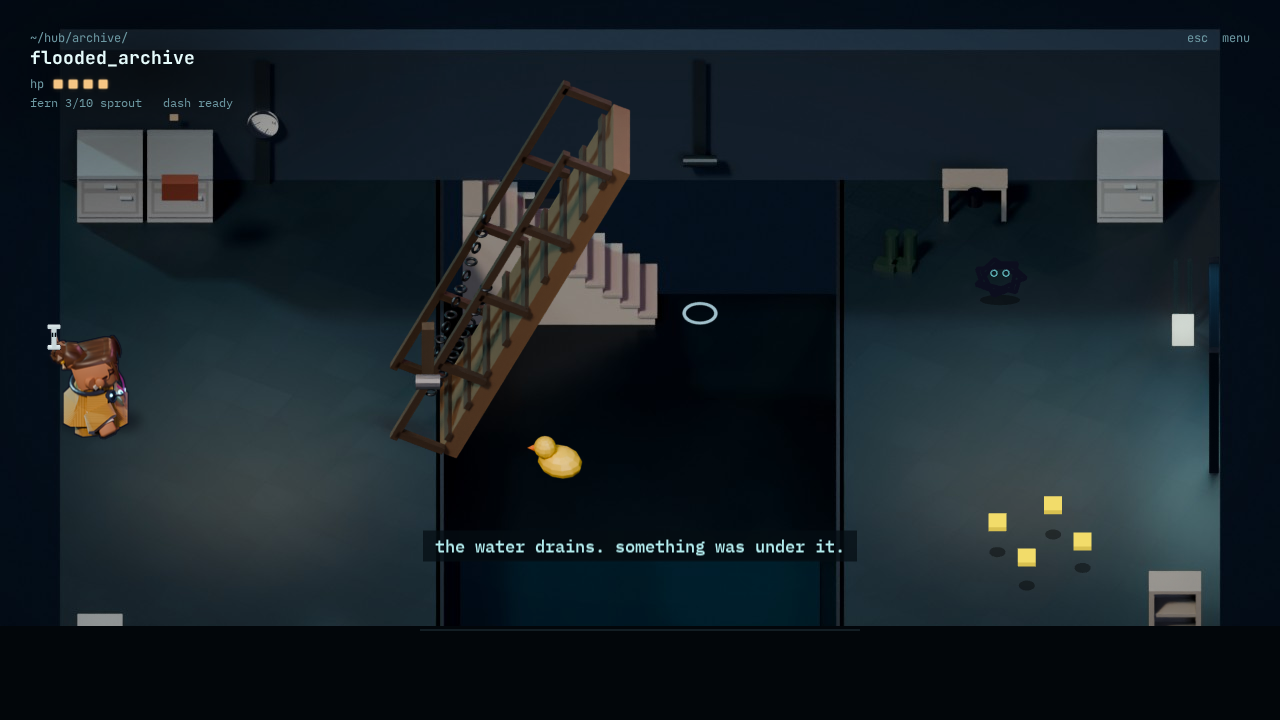
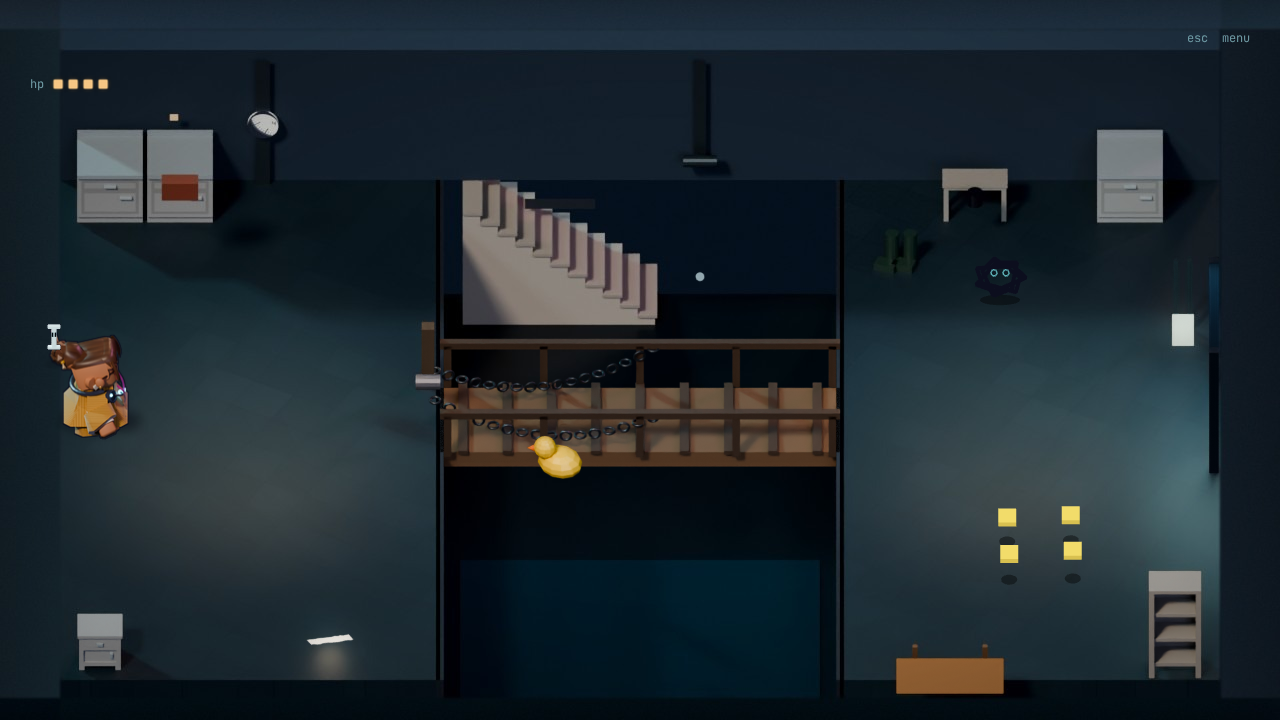
Level 1 step 5: launch-to-end playtest and stills.
Playtest now walks boot, title, New Game, the intro, the Phase 1
steal playthrough, the end screen, back to the menu, and Continue.
Stills live in mock-steal/level1/stills/. verify_steal and
impact_lab still pass. Continue no longer gets wiped by ?new=1.

diff --git a/game/src/game.ts b/game/src/game.ts
@@ -107,6 +107,7 @@ export class GameScene extends Phaser.Scene {
   roomCard?: Phaser.GameObjects.Container;
   endScreen?: Phaser.GameObjects.Container;
   ending = false;
+  endTimer?: Phaser.Time.TimerEvent;
   buildStamp = '';
   init(data?: TitleStartData) {
     this.fromTitle = !!data?.fromTitle;
@@ -131,7 +132,9 @@ export class GameScene extends Phaser.Scene {
       // Open floor near the rain window (not the coffee counter / old checkpoints)
       this.save.checkpoint = { room: 'office', x: 880, y: 400, plate: null };
     } else {
-      if (q.has('new')) wipeSave();
+      // ?new=1 is for lab / playtest URLs that boot straight into a fresh game.
+      // Title Continue must not honor it — the page URL still has ?new=1 from New Game.
+      if (q.has('new') && this.startMode !== 'continue') wipeSave();
       this.save = loadSave();
     }
     try { this.seenEver = this.labMode ? [] : JSON.parse(localStorage.getItem('pi.seenEver') ?? '[]'); } catch { this.seenEver = []; }
@@ -374,6 +377,9 @@ export class GameScene extends Phaser.Scene {
     { if (this.labMode) this.setupStaticCamera(); else this.setupStaticCamera(); }
     this.darkness = null; this.litImg = null; this.bridgeImg = null; this.bridgeTw = null; this.fgImgs = {}; this.hintObj = null; this.hintOn = false; this.stuck = 0; this.hintUsed = false; this.subQueue = []; this.subBusy = false;
     this.hud.sub.setVisible(false); this.hud.fern.setVisible(false); this.composer = null; this.busy = false; this.hand = null;
+    this.endTimer?.remove(false); this.endTimer = undefined;
+    this.endScreen?.destroy(); this.endScreen = undefined; this.ending = false;
+    this.roomCard?.destroy(); this.roomCard = undefined;
     this.fight = null; this.rootUsed = false; this.stored = null; this.rewriteT = 0; this.timeScale = 1; this.selecting = false; this.selectG = null; this.cutscene = null; this.slowVeil = null;
   }
 
@@ -418,7 +424,7 @@ export class GameScene extends Phaser.Scene {
     this.caret.setPosition(this.x - 40, this.y - 40);
     if (!fromLoad || cp.room !== id) { this.save.checkpoint = { room: id, x: r.spawn.x, y: r.spawn.y, plate: null }; }
     this.save.room = id; writeSave(this.save);
-    this.words.quiet = !!this.clar || (STEAL_ROOMS.includes(id) && !this.swapMode);
+    this.words.quiet = !!this.clar || ((STEAL_ROOMS.includes(id) || id === 'message') && !this.swapMode);
     this.setupRoom(id);
     this.clar?.start();
     // combat greybox: office only, behind ?combat=1
@@ -560,7 +566,7 @@ export class GameScene extends Phaser.Scene {
         if (finished) return; finished = true; this.cutscene = null;
         this.plateById('m_stairs')?.setVisibleState(true);
         this.save.phaseComplete = true; if (!this.save.seen.includes('sc5')) this.save.seen.push('sc5'); this.markSeen('sc5'); writeSave(this.save);
-        this.time.delayedCall(1200, () => showEndScreen(this));
+        this.endTimer?.remove(false); this.endTimer = this.time.delayedCall(1200, () => showEndScreen(this));
       };
       this.startCutscene('sc5', 0, () => {}, () => { this.subQueue = []; this.nextSub(); lines.forEach(([who, l, side], i) => { const b = this.add.text(side ? 880 : 400, 90 + i * 40, l, { fontFamily: 'IBM Plex Mono', fontSize: '16px', fontStyle: '500', color: who === 'ai' ? C.fern : '#F6E6C8', backgroundColor: 'rgba(10,16,24,0.9)', padding: { x: 10, y: 5 } }).setOrigin(side ? 1 : 0, 0).setDepth(-840); this.objs.push(b); }); this.time.removeAllEvents(); finish(); });
       const run = () => {

diff --git a/game/src/flow.ts b/game/src/flow.ts
@@ -52,7 +52,7 @@ export function showRoomCard(s: GameScene, id: RoomId) {
 }
 
 export function showEndScreen(s: GameScene) {
-  if (s.endScreen) return;
+  if (s.endScreen || s.room?.id !== 'message' || s.transitioning || s.ending) return;
   flushPlay(s);
   s.save.phaseComplete = true;
   writeSave(s.save);
@@ -60,7 +60,7 @@ export function showEndScreen(s: GameScene) {
   s.cutscene = { id: 'end', skip: () => backToTitle(s) };
   const time = formatPlayTime(s.save.playMs ?? 0);
   const c = s.add.container(0, 0).setScrollFactor(0).setDepth(8600);
-  const dim = s.add.rectangle(640, 360, 1280, 720, 0x04080c, 0.88).setInteractive();
+  const dim = s.add.rectangle(640, 360, 1280, 720, 0x04080c, 0.96).setInteractive();
   const kicker = s.add.text(640, 200, 'LEVEL 1', {
     fontFamily: FONT, fontSize: '16px', color: C.cyan, letterSpacing: 6,
   } as Phaser.Types.GameObjects.Text.TextStyle).setOrigin(0.5);

diff --git a/game/src/intro.ts b/game/src/intro.ts
@@ -43,6 +43,8 @@ export class IntroCutscene {
     const s = this.s;
     s.x = DESK.x; s.y = DESK.y; s.dir = 'N';
     try { s.unstick(); } catch { /* */ }
+    s.noor.setPosition(s.x, s.y);
+    try { s.shadow?.setPosition(s.x, s.y + 8); } catch { /* */ }
     try { s.noor.play('noor_type1_N', true); } catch { try { s.noor.play('noor_idle_N'); } catch { /* */ } }
     s.noor.on('animationcomplete', this.onType);
 
@@ -125,6 +127,8 @@ export class IntroCutscene {
       s.noor.off('animationcomplete', this.onType);
       s.x = s.room.spawn.x; s.y = s.room.spawn.y; s.dir = 'S';
       try { s.unstick(); } catch { /* */ }
+      s.noor.setPosition(s.x, s.y);
+      try { s.shadow?.setPosition(s.x, s.y + 8); } catch { /* */ }
       try { s.noor.play('noor_idle_S'); } catch { /* */ }
       s.busy = false;
       s.cutscene = null;

diff --git a/game/src/impact/ImpactLab.ts b/game/src/impact/ImpactLab.ts
@@ -766,6 +766,7 @@ export class ImpactLab {
     if (this.leafR) this.leafR.x = LEAF_R0.x + slide;
     this.clipLeavesToOpening();
     this.syncOpenFx(kk);
+    if (kk >= 1) this.done = true;
   }
 
     get lampAlive() { return this.lampOn; }

diff --git a/docs/HANDOFF.md b/docs/HANDOFF.md
@@ -1,3 +1,38 @@
+# HANDOFF — Level 1 step 5: playtest, stills, Continue
+
+**Date:** 2026-11-10 (Asia/Calcutta)
+**Focus:** A real launch-to-end playtest, and honest stills of the new shell.
+
+## Tests
+
+- `npm run playtest` **191/191 passed** (boot → title → New Game → skippable intro → Phase 1 steal playthrough → end screen → menu → Continue, plus linger / office11 / combat / mobile).
+- `verify_steal` **PASS**, `impact_lab` **PASS**.
+
+## Stills
+
+`mock-steal/level1/stills/title.png`  
+`mock-steal/level1/stills/intro.png`  
+`mock-steal/level1/stills/room-card.png`  
+`mock-steal/level1/stills/corridor.png`  
+`mock-steal/level1/stills/arena.png`  
+`mock-steal/level1/stills/end.png`
+
+The office-doors still in `mock-steal/phase1/stills/office-doors-open.png` is now taken after `liftDone`, with the cab actually open.
+
+## Honest leftovers (looked at the stills)
+
+- Title is clean: dimmed full-bleed office, rain, typographic menu. Continue is visible but dim when there is no save.
+- Intro still is the “office goes still” beat with Noor at her desk. Rain in the window is still moving (the pause didn’t fully freeze it). HP, esc menu, and a couple of edge pixels (caret / skip) stay on during the cutscene. Noor overlaps the desk slightly.
+- Room card “THE MIRROR OFFICE” is clear and the old `~/hub/` path HUD is gone. The hub’s late mirror-copy of Noor is still visible, and the card sits over the neon door.
+- Corridor is readable with the lamp on. The navy fill around the U-shaped room is still a wide dark margin; the top-right clock desk has a slightly mismatched patch.
+- Arena: the HOLD E hint is gone. “GUARD BROKEN” is a toast under the boss bar, not over the HP pips. The void is a dark navy instead of a black letterbox. Boss chrome (name, bar, “guard broken 5.8s”, toast) still stacks at the top centre.
+- End screen is typographic and readable (Level 1 complete, 1:15, thank-you / to be continued, Back to menu). The claim-shard “FILED” and a ghost of the HP pips still show faintly through the scrim.
+- Hub side/bottom bleeds are still close in value to the old letterbox. Message-room side fills are flat wall-color slabs with visible seams (see step 4).
+- `?new=1` in the URL no longer wipes a Title Continue (the playtest URL keeps `new=1` after New Game).
+- Did not touch dirty `art/rnd-pixel` or `art/out`.
+
+---
+
 # HANDOFF — Level 1 step 4: leftover plate and UI fixes
 
 **Date:** 2026-11-10 (Asia/Calcutta)
